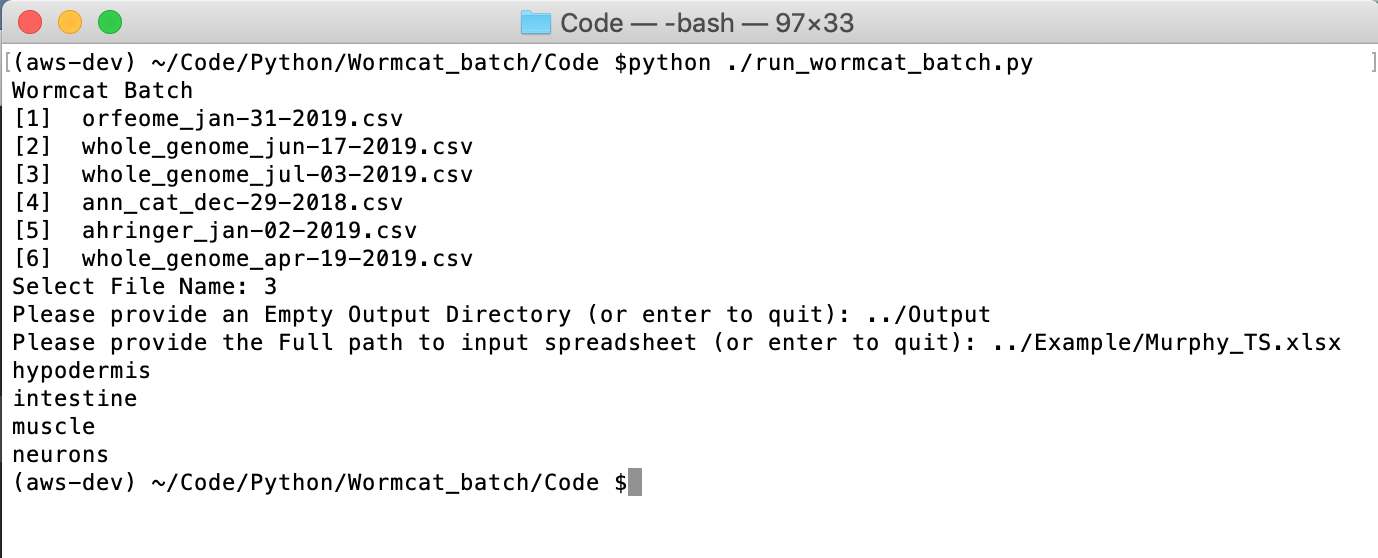
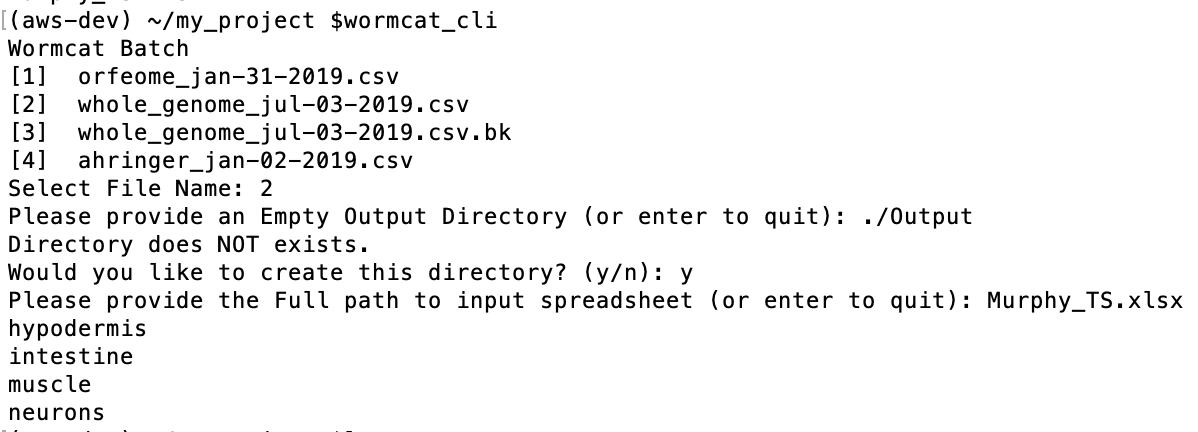
updates to readme

Changed region(s): [[0.0, 0.0, 1.0, 1.0], [0.7412, 0.6019, 0.9883, 0.6319]]

diff --git a/README.md b/README.md
@@ -1,53 +1,64 @@
 # Wormcat Batch
 
 ### Overview
-*Wormcat Batch* is a command line tool that allows you to batch multiple runs of Wormcat from a Microsoft Excel File.
+*Wormcat Batch* is a command line tool that allows you to batch multiple
+runs of Wormcat from a Microsoft Excel File.
+
 
 ### Prerequisites
 
-*Wormcat Batch* requires that a fully functioning 'R' Wormcat package is installed and Python 3.6
+*Wormcat Batch* requires Python 3.5+ and R 3.4.1+ with a Wormcat
+package installed.
 
-If you are unsure if you have Wormcat installed you can run `is_wormcat_installed.R`
-This simple script can be found in the `Code` directory and will return the location
-of the wormcat R installation if it is installed.
+If you are unsure if you have Wormcat installed you can run
+`find.package("wormcat")` from an R command prompt.
 
-If *Wormcat* is not install you can follow the directions [here](https://github.com/dphiggs01/Wormcat/blob/master/README.md)
-to install Wormcat. Note: Wormcat can be installed as an R package you do NOT need to checkout the
-source unless you intend to modify Wormcat. The readme file explains how to install Wormcat as an R package.
+If *Wormcat* is not install you can follow the directions
+[here](https://github.com/dphiggs01/Wormcat/blob/master/README.md)
+to install Wormcat. Note: Wormcat can be installed as an R package you
+do NOT need to checkout the source unless you intend to modify Wormcat.
+The readme file explains how to install Wormcat as an R package.
 
 
 ### Excel spreadsheet Naming Conventions
 
-Once you have the R package installed you will create an Excel Spreadsheet with the
-required data for batch execution.
+Once you have the R package installed you will create an Excel
+Spreadsheet with the required data for batch execution.
 
 See the file `Example/Murphy_TS.xsl` for details.
 
+<img src="./Images/Sample_Input.png"  height="405" width="500"/>
+
 Note:
 
-* Th Spreadsheet Name should ONLY be composed of Letters, Numbers and Underscores (_)
-and has an extension .xlsx, .xlt, .xls
-* The Sheet Names within the spreadsheet should ONLY be composed of Letters, Numbers and Underscores (_)
-other characters may cause the batch process to fail!
+* The Spreadsheet Name should ONLY be composed of Letters, Numbers and
+Underscores (_) and has an extension .xlsx, .xlt, .xls
+* The Sheet Names within the spreadsheet should ONLY be composed of
+Letters, Numbers and Underscores (_) other characters may cause the
+batch process to fail!
 * Each sheet requires a column name "gene ID" (This column name is case sensitive)
 
 ### To Run the Batch Process
 
-To run the batch process open a terminal window, change directory to the
-location of the Wormcat_batch.
+To run the batch process open a terminal window, change directory to your
+project directory.
 
-Execute: `python ./runwormcat_batch.py`
+```
+$pip install wormcat_batch
+$wormcat_cli
+```
+
+<img src="./Images/Example_Run.png"  height="288" width="800"/>
+
 
 After execution the Output Directory will contain all the Wormcat run data and a
 summary Excel spreadsheet.
 
 
-<img src="./Images/Example_Run.png"  height="283" width="700"/>
-
 
 ### Sample Output
 
-<img src="./Images/Sample_Output.png"  height="405" width="800"/>
+<img src="./Images/Sample_Output.png"  height="415" width="800"/>
 
 
 
